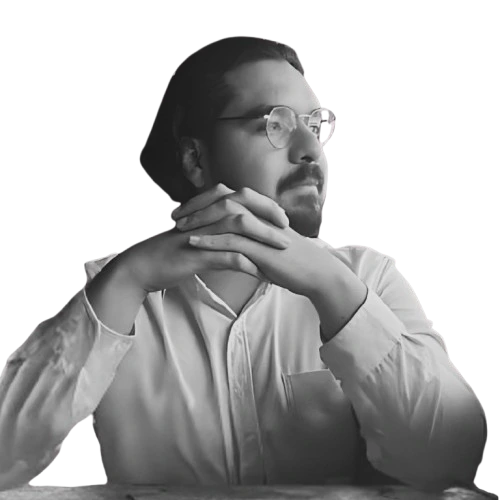
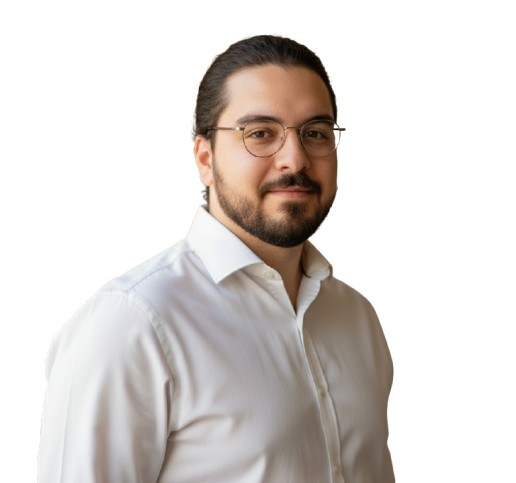
Agregamos el calendario

diff --git a/pages/contacto.html b/pages/contacto.html
@@ -147,7 +147,7 @@
                         <div class="quick-action">
                             <h3>¿Prefieres una videollamada?</h3>
                             <p>Agenda una reunión directamente en nuestro calendario</p>
-                            <a href="#" class="cta-btn" onclick="window.open('https://calendly.com/d/cwty-bpz-z9f/reunion-puntual', '_blank')">
+                            <a href="#" class="cta-btn" onclick="window.open('https://calendar.app.google/31sBgWn3SBrmQJWw8', '_blank')">
                                 <i class="fas fa-calendar-alt"></i>
                                 Agendar Cita
                             </a>
@@ -214,7 +214,7 @@
                 <a href="../index.html">Inicio</a>
                 <a href="./nosotros.html">Nosotros</a>
                 <a href="./contacto.html">Contacto</a>
-                <a href="#" onclick="window.open('https://calendly.com/d/cwty-bpz-z9f/reunion-puntual', '_blank')">
+                <a href="#" onclick="window.open('https://calendar.app.google/31sBgWn3SBrmQJWw8', '_blank')">
                     Agendar Cita
                 </a>
             </div>

diff --git a/index.html b/index.html
@@ -94,7 +94,7 @@
                     <span class="green">productividad </span>a otro nivel
                 </h1>
                 <button class="left__button"
-                    onclick="window.open('https://calendly.com/d/cwty-bpz-z9f/reunion-puntual', '_blank')">
+                    onclick="window.open('https://calendar.app.google/31sBgWn3SBrmQJWw8', '_blank')">
                     <i class="fa-solid fa-calendar"></i> Agenda tu sesión
                 </button>
             </div>
@@ -238,7 +238,7 @@
                 <a href="index.html">Inicio</a>
                 <a href="nosotros.html">Nosotros</a>
                 <a href="contacto.html">Contacto</a>
-                <a href="#" onclick="window.open('https://calendly.com/d/cwty-bpz-z9f/reunion-puntual', '_blank')">
+                <a href="#" onclick="window.open('https://calendar.app.google/31sBgWn3SBrmQJWw8', '_blank')">
                     Agendar Cita
                 </a>
             </div>

diff --git a/pages/nosotros.html b/pages/nosotros.html
@@ -269,7 +269,7 @@
                 <a href="../index.html">Inicio</a>
                 <a href="./nosotros.html">Nosotros</a>
                 <a href="./contacto.html">Contacto</a>
-                <a href="#" onclick="window.open('https://calendly.com/d/cwty-bpz-z9f/reunion-puntual', '_blank')">
+                <a href="#" onclick="window.open('https://calendar.app.google/31sBgWn3SBrmQJWw8', '_blank')">
                     Agendar Cita
                 </a>
             </div>
